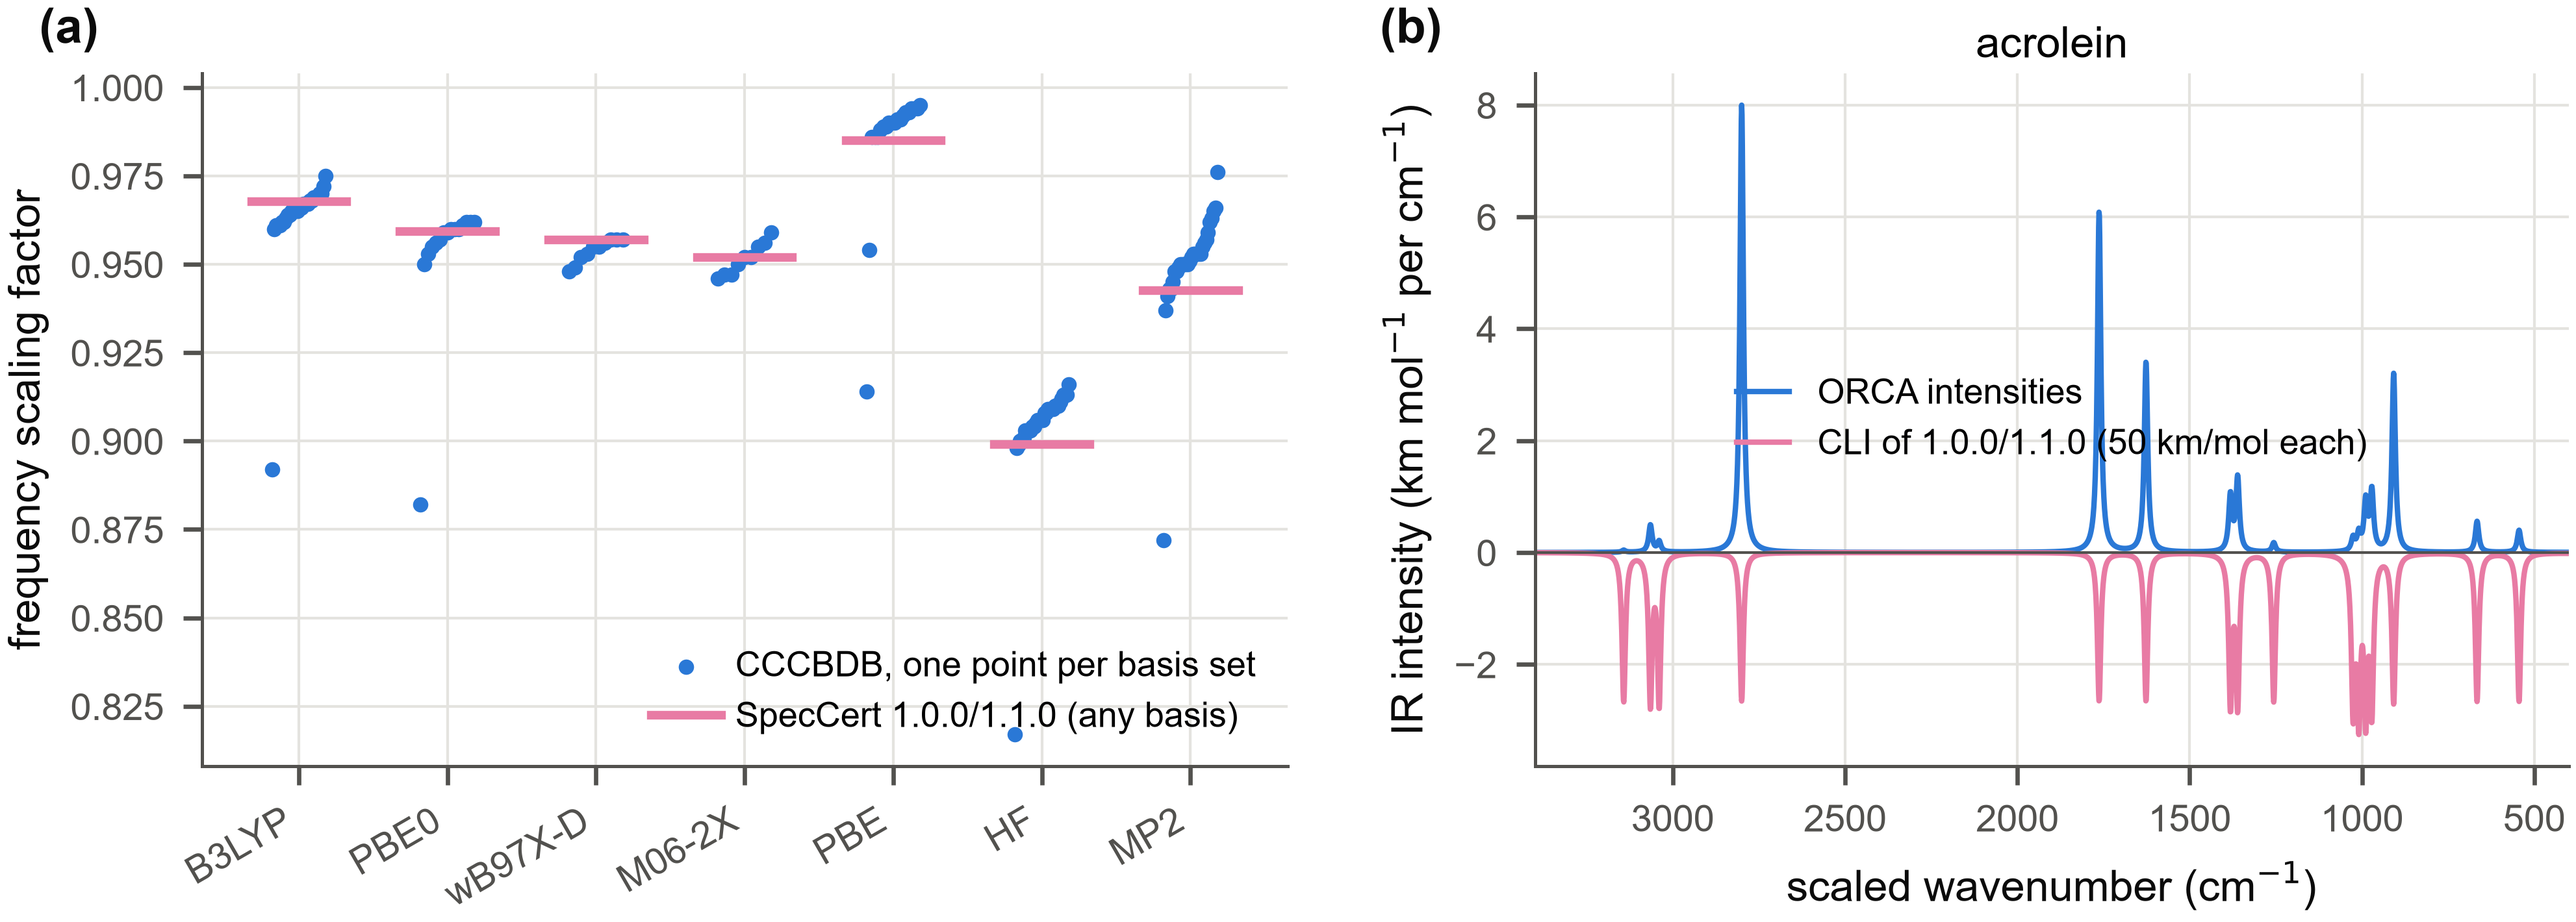
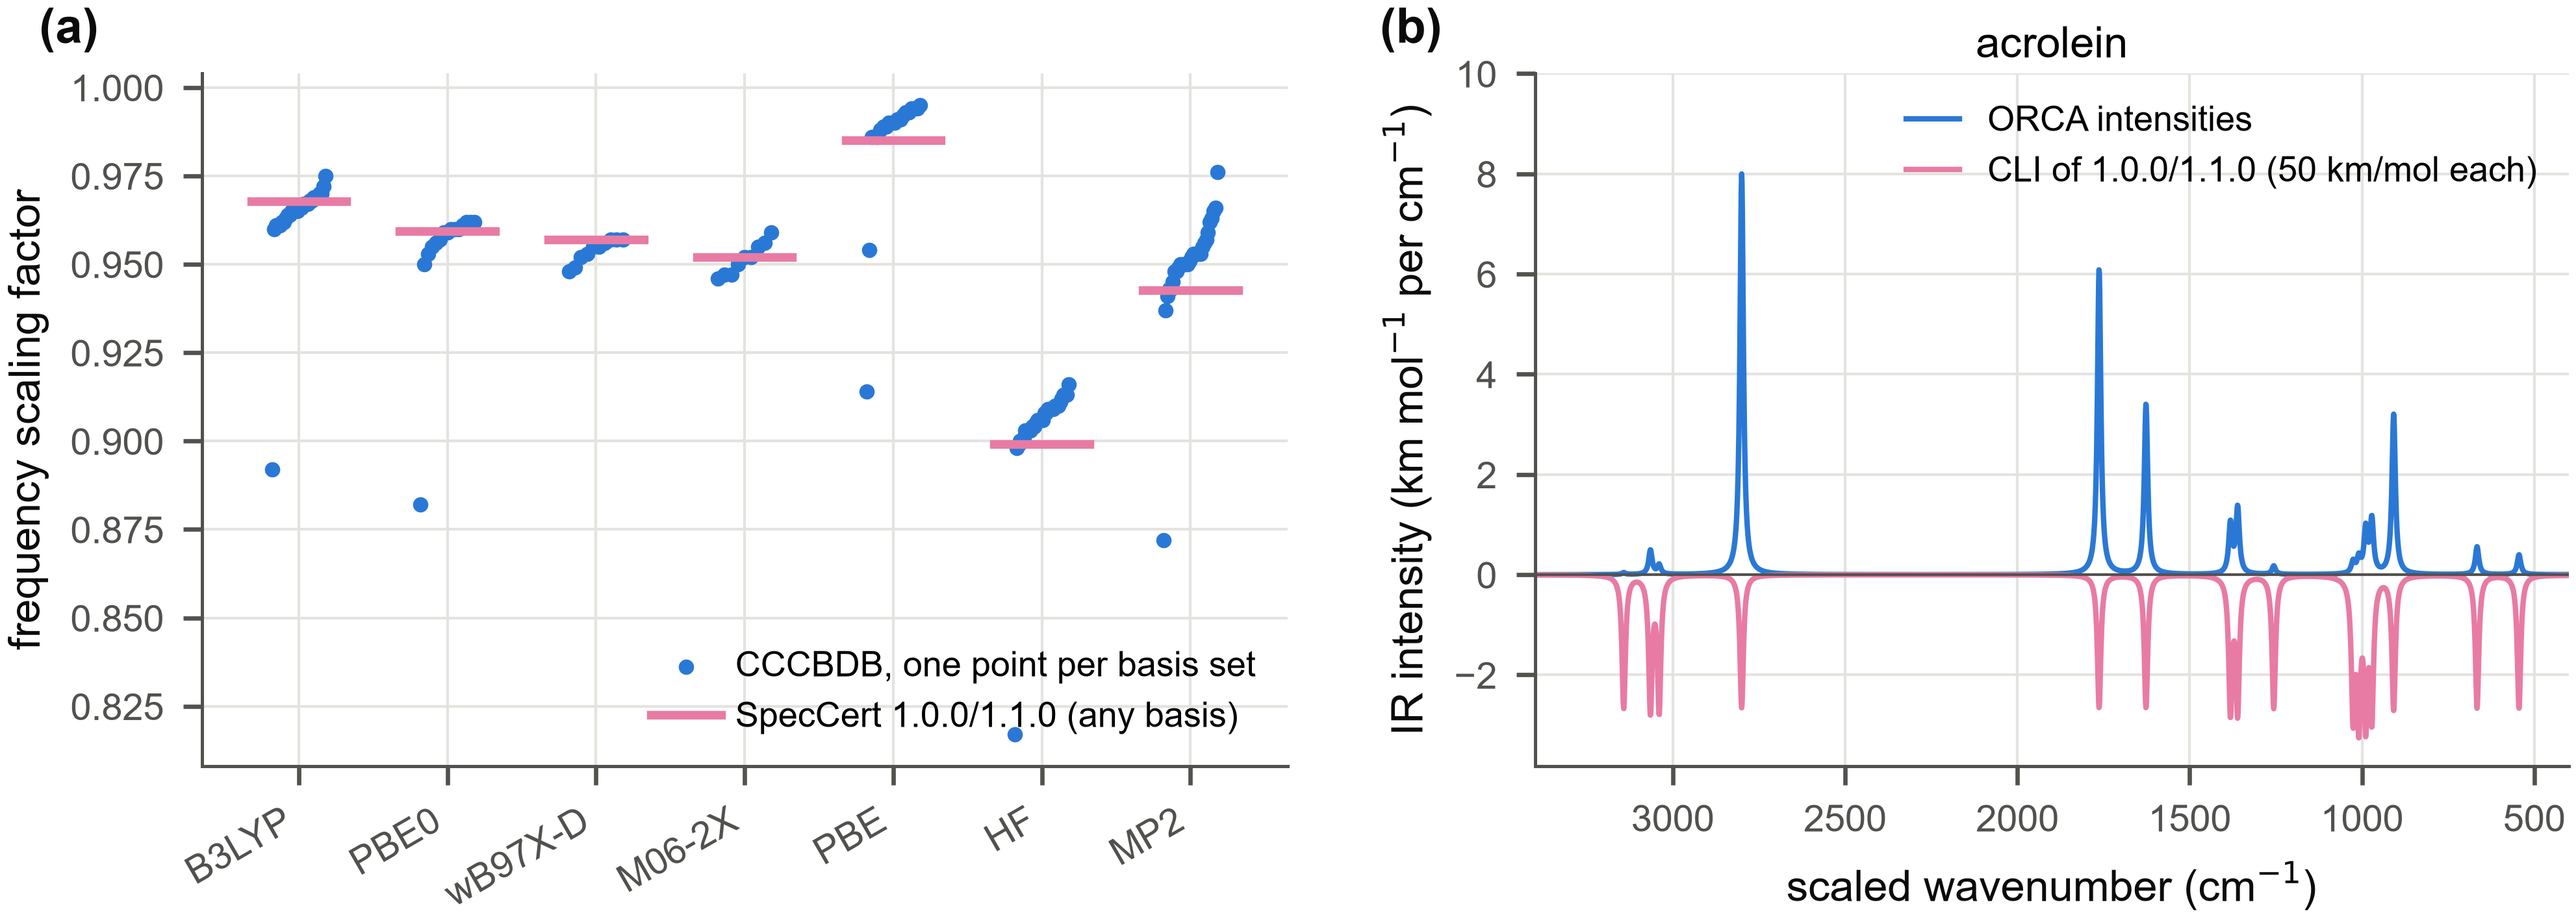
validation figures: legend and label placement in the IR and d-band figures
The IR legend no longer covers the 2800 cm-1 band; d-band point labels have their own offsets and the legend sits below the panel; figures regenerated with validation/make_figures.py (same data).

diff --git a/validation/make_figures.py b/validation/make_figures.py
@@ -122,7 +122,8 @@ def fig_ir():
     b.set_xlabel(r"scaled wavenumber (cm$^{-1}$)")
     b.set_ylabel(r"IR intensity (km mol$^{-1}$ per cm$^{-1}$)")
     b.set_title("acrolein", pad=3)
-    b.legend(loc="center", handlelength=1.5)
+    b.set_ylim(top=10)
+    b.legend(loc="upper right", handlelength=1.5)
     panel(b, "b")
     fig.tight_layout(w_pad=2.0)
     save(fig, "fig2_ir")
@@ -143,7 +144,8 @@ def fig_dband():
               linewidth=0.9, label="SpecCert 1.0.0/1.1.0")
     a.scatter(d.centre_filled_pymatgen, d.centre_filled_speccert, s=12, color=NEW, linewidth=0, label="SpecCert 1.2.0")
     for _, r in d.iterrows():
-        a.annotate(r.system, (r.centre_filled_pymatgen, r.centre_filled_speccert), xytext=(3, -8),
+        a.annotate(r.system, (r.centre_filled_pymatgen, r.centre_filled_speccert),
+                   xytext={"Cu": (-15, 6), "Co18": (-24, -4), "Fe": (5, -9), "Fe39": (-26, 3)}.get(r.system, (3, -8)),
                    textcoords="offset points", fontsize=5.5, color=INK2)
     a.set_xlim(lim)
     a.set_ylim(lim)
@@ -163,7 +165,7 @@ def fig_dband():
         b.scatter([i + 0.33], [c[0]], marker="<", s=22, color=AUX, label="first atom" if i == 0 else None)
     b.set_xticks(range(3), [r"Fe$_{39}$", r"Ni$_{47}$", r"Co$_{18}$"])
     b.set_ylabel(r"$\varepsilon_d$, occupied part (eV)")
-    b.legend(loc="lower right", fontsize=6)
+    b.legend(loc="upper center", bbox_to_anchor=(0.5, -0.1), ncol=2, fontsize=6)
     panel(b, "b")
     fig.tight_layout(w_pad=2.0)
     save(fig, "fig3_dband")
